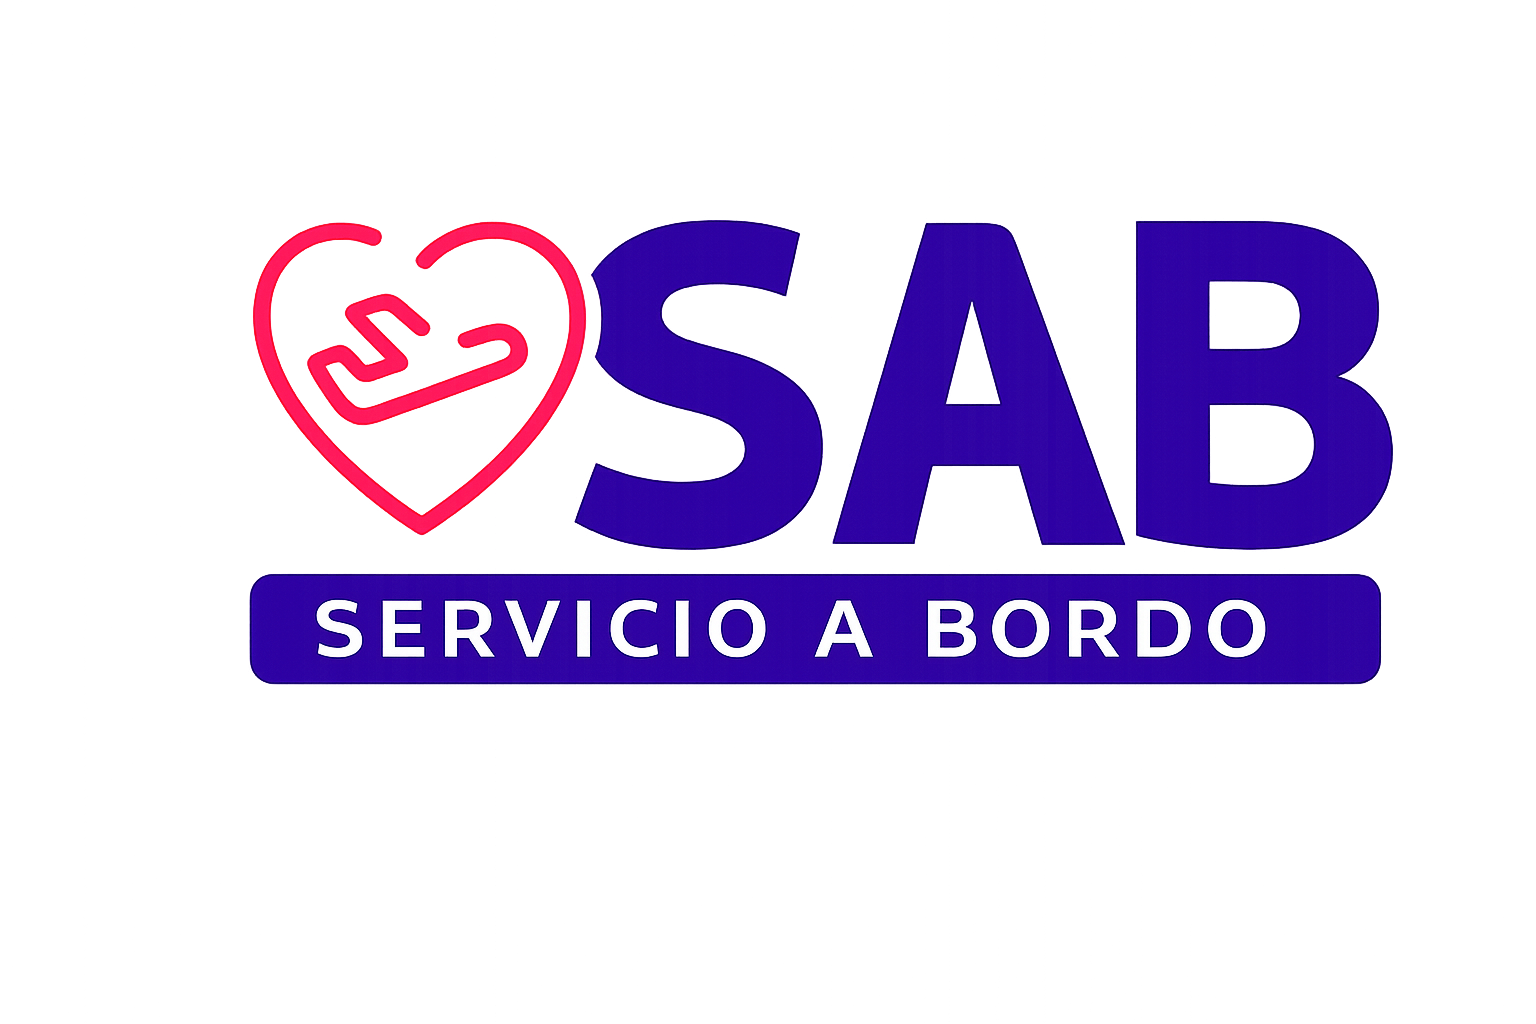
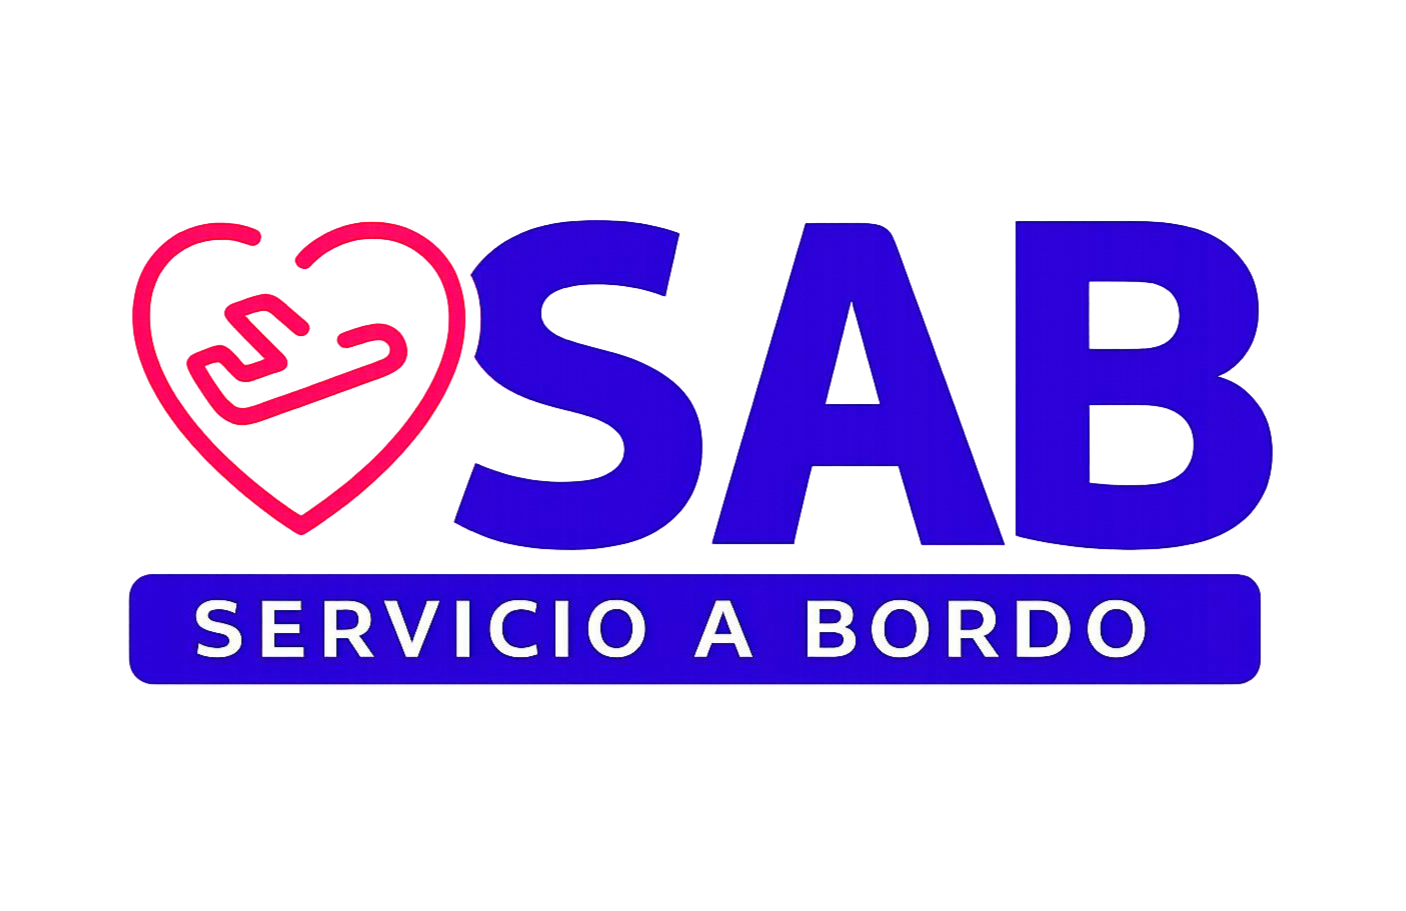
agregando modal y arreglando imagen titulo hero

diff --git a/src/components/NewsDetailModal.jsx b/src/components/NewsDetailModal.jsx
@@ -1,0 +1,130 @@
+import Modal from './Modal.jsx'
+import { IconPlane, IconCalendar, IconClipboard, IconClose } from './icons.jsx'
+
+const SECTION_ICONS = {
+  flight: IconPlane,
+  calendar_month: IconCalendar,
+  fact_check: IconClipboard,
+}
+
+function InfoCard({ section }) {
+  const Icon = SECTION_ICONS[section.icon] ?? IconClipboard
+  return (
+    <div className="flex flex-col rounded-xl border border-latam-diavivo/25 bg-latam-estrellada/40 p-3.5 backdrop-blur-sm">
+      <div className="mb-2 flex items-center gap-2 border-b border-white/10 pb-2">
+        <Icon className="h-4 w-4 flex-shrink-0 text-latam-coral" />
+        <h4 className="text-[11px] font-extrabold uppercase tracking-wider text-white">{section.title}</h4>
+      </div>
+      <p className="text-[12.5px] leading-relaxed text-slate-300">{section.body}</p>
+
+      {section.table && (
+        <div className="mt-3 overflow-hidden rounded-lg border border-white/10 bg-black/20 text-[12px]">
+          <div className="grid grid-cols-3 border-b border-white/10 bg-white/5 px-3 py-2 font-semibold text-slate-300">
+            {section.table.headers.map((h) => (
+              <div key={h} className={h === section.table.headers[2] ? 'text-right' : h === section.table.headers[1] ? 'text-center' : ''}>
+                {h}
+              </div>
+            ))}
+          </div>
+          <div className="divide-y divide-white/5">
+            {section.table.rows.map((row) => (
+              <div key={row.join('-')} className="grid grid-cols-3 items-center px-3 py-2">
+                <div className="font-bold text-white">{row[0]}</div>
+                <div className="text-center text-slate-300">{row[1]}</div>
+                <div className="text-right font-extrabold text-latam-coral">{row[2]}</div>
+              </div>
+            ))}
+          </div>
+        </div>
+      )}
+    </div>
+  )
+}
+
+export default function NewsDetailModal({ news, onClose }) {
+  const { detail, image } = news
+  if (!detail && !image) return null
+
+  if (image) {
+    return (
+      <Modal onClose={onClose} className="bg-latam-profunda">
+        <button
+          type="button"
+          onClick={onClose}
+          aria-label="Cerrar"
+          className="absolute right-4 top-4 z-20 flex h-8 w-8 items-center justify-center rounded-full border border-white/10 bg-white/10 text-white transition hover:bg-white/20"
+        >
+          <IconClose className="h-4 w-4" />
+        </button>
+        <img src={`${import.meta.env.BASE_URL}${image}`} alt={news.noticia} className="block w-full" />
+      </Modal>
+    )
+  }
+
+  const [mainSection, ...restSections] = detail.sections ?? []
+
+  return (
+    <Modal onClose={onClose} className="text-white">
+      <div
+        className="relative flex flex-col overflow-hidden rounded-2xl"
+        style={{ background: 'linear-gradient(185deg, #0F004F 0%, #1B0088 55%, #080030 100%)' }}
+      >
+        <div className="pointer-events-none absolute right-0 top-0 h-72 w-72 rounded-full bg-latam-diavivo opacity-40 blur-[90px]" />
+        <div className="pointer-events-none absolute bottom-0 left-0 h-56 w-56 rounded-full bg-latam-coral opacity-20 blur-[100px]" />
+
+        <button
+          type="button"
+          onClick={onClose}
+          aria-label="Cerrar"
+          className="absolute right-4 top-4 z-20 flex h-8 w-8 items-center justify-center rounded-full border border-white/10 bg-white/10 text-white transition hover:bg-white/20"
+        >
+          <IconClose className="h-4 w-4" />
+        </button>
+
+        <div className="relative h-40 w-full overflow-hidden">
+          <div className="absolute inset-0 z-10 bg-gradient-to-t from-[#0F004F] via-[#0F004F]/50 to-transparent" />
+          <div className="absolute inset-0 z-10 bg-gradient-to-r from-[#0F004F]/60 to-transparent" />
+          <img
+            src={`${import.meta.env.BASE_URL}img/hero.png`}
+            alt=""
+            className="h-full w-full scale-105 object-cover object-[center_65%]"
+          />
+          <span className="absolute left-5 top-4 z-20 text-[10px] font-bold uppercase tracking-[3px] text-slate-300">
+            Comunicados
+          </span>
+        </div>
+
+        <div className="relative z-10 space-y-4 px-6 pb-7 pt-3">
+          <div className="flex flex-wrap items-center gap-2">
+            <span className="rounded-full bg-latam-coral px-3 py-1 text-[10px] font-extrabold uppercase tracking-wider text-white shadow-sm">
+              {detail.eyebrow}
+            </span>
+            {detail.tag && (
+              <span className="text-xs font-semibold uppercase tracking-wide text-slate-300">{detail.tag}</span>
+            )}
+          </div>
+
+          <h2 className="text-2xl font-extrabold leading-tight tracking-tight text-white">{detail.title}</h2>
+
+          <p className="text-[13.5px] font-light leading-relaxed text-slate-200">{detail.body}</p>
+
+          {detail.highlight && (
+            <div className="rounded-r-xl border-l-4 border-latam-coral bg-white/5 p-3.5">
+              <p className="text-[13px] font-medium italic leading-snug text-slate-200">{detail.highlight}</p>
+            </div>
+          )}
+
+          {mainSection && <InfoCard section={mainSection} />}
+
+          {restSections.length > 0 && (
+            <div className="grid grid-cols-1 gap-3 sm:grid-cols-2">
+              {restSections.map((section) => (
+                <InfoCard key={section.title} section={section} />
+              ))}
+            </div>
+          )}
+        </div>
+      </div>
+    </Modal>
+  )
+}

diff --git a/src/data/news.js b/src/data/news.js
@@ -4,11 +4,43 @@ export const NEWS = [
     noticia: 'Ampliación del Piloto: Sanguchito de Pollo',
     description: 'Implementación confirmada en las rutas internacionales de Punta Cana (PUJ) y Cancún (CUN).',
     href: '#',
+    detail: {
+      eyebrow: 'Extensión de Plazo',
+      title: '¡Continúa el sándwich a bordo!',
+      tag: 'Regional YC (PUJ + CUN)',
+      body: 'Gracias a sus sugerencias y buenas ideas, se dio inicio con este piloto en nuestro servicio de catering, que busca elevar la experiencia de nuestros pasajeros a un nivel superior. El éxito del mismo va de la mano con el toque de hospitalidad que nos caracteriza en cada vuelo, durante la entrega del servicio.',
+      highlight: 'Cambio de producto: El sándwich de jamón y queso será sustituido por un sándwich de pollo a la brasa con queso.',
+      sections: [
+        {
+          icon: 'flight',
+          title: 'Alcance Obligatorio',
+          body: 'Aplica únicamente en los números de vuelos detallados para la ruta LIM–PUJ y LIM–CUN (solo one way):',
+          table: {
+            headers: ['Ruta', 'Vuelo', 'Hora'],
+            rows: [
+              ['LIM - CUN', '2456', '13:05'],
+              ['LIM - PUJ', '2450', '12:30'],
+            ],
+          },
+        },
+        {
+          icon: 'calendar_month',
+          title: 'Vigencia de la Medida',
+          body: 'Se inició el 01 de junio, y ahora se extiende la vigencia todo el mes de julio.',
+        },
+        {
+          icon: 'fact_check',
+          title: 'Medición de Avance (NIMBUS)',
+          body: 'Se activa campaña en NIMBUS para que JSB y HR de manera obligatoria respondan la breve encuesta que necesitamos para medir el avance del piloto.',
+        },
+      ],
+    },
   },
   {
     noticia: 'Reembolso Multas Elecciones 2026',
     description: 'Revisa los plazos y carga tus comprobantes oficiales de exoneración en el portal de Datos Personales.',
     href: '#',
+    image: 'img/noticia_modal/plazo_reembolso.png',
   },
   {
     noticia: 'Renovación de Fotocheck: Nuevo Proceso Digital',

diff --git a/src/pages/Home.jsx b/src/pages/Home.jsx
@@ -1,8 +1,9 @@
-import { useEffect } from 'react'
+import { useEffect, useState } from 'react'
 import { MODULES } from '../data/menuData.js'
 import { NEWS } from '../data/news.js'
 import OptionCard from '../components/OptionCard.jsx'
 import NoveltyCarousel from '../components/NoveltyCarousel.jsx'
+import NewsDetailModal from '../components/NewsDetailModal.jsx'
 import Reveal from '../components/Reveal.jsx'
 import SectionHeading from '../components/SectionHeading.jsx'
 import FaqAccordion from '../components/FaqAccordion.jsx'
@@ -35,6 +36,8 @@ const FAQ_ITEMS = [
 ]
 
 export default function Home() {
+  const [activeNews, setActiveNews] = useState(null)
+
   useEffect(() => {
     document.title = 'SAB Perú · Inicio'
   }, [])
@@ -59,7 +62,7 @@ export default function Home() {
             />
           </div>
 
-          <NoveltyCarousel items={NEWS} />
+          <NoveltyCarousel items={NEWS} onOpenDetail={setActiveNews} />
         </section>
 
         <section className="flex flex-[1] flex-col justify-center px-5 pb-3 pt-6 sm:pt-8">
@@ -101,6 +104,10 @@ export default function Home() {
           </div>
         </Reveal>
       </div>
+
+      {(activeNews?.detail || activeNews?.image) && (
+        <NewsDetailModal news={activeNews} onClose={() => setActiveNews(null)} />
+      )}
     </>
   )
 }

diff --git a/src/components/NoveltyBanner.jsx b/src/components/NoveltyBanner.jsx
@@ -3,6 +3,8 @@ export default function NoveltyBanner({
   description,
   href = '#',
   buttonLabel = 'Ver detalle',
+  hasDetail = false,
+  onOpenDetail,
   className = '',
 }) {
   return (
@@ -11,12 +13,23 @@ export default function NoveltyBanner({
     >
       <h3 className="text-3xl font-bold text-white">{noticia}</h3>
       <p className="text-xl leading-snug text-white">{description}</p>
-      
-        <a href={href}
-        className="mt-2 inline-block rounded-lg bg-latam-coral px-5 py-2 text-sm font-bold uppercase tracking-wide text-white"
-      >
-        {buttonLabel}
-      </a>
+
+      {hasDetail ? (
+        <button
+          type="button"
+          onClick={onOpenDetail}
+          className="mt-2 inline-block rounded-lg bg-latam-coral px-5 py-2 text-sm font-bold uppercase tracking-wide text-white"
+        >
+          {buttonLabel}
+        </button>
+      ) : (
+        <a
+          href={href}
+          className="mt-2 inline-block rounded-lg bg-latam-coral px-5 py-2 text-sm font-bold uppercase tracking-wide text-white"
+        >
+          {buttonLabel}
+        </a>
+      )}
     </div>
   )
 }

diff --git a/src/components/Modal.jsx b/src/components/Modal.jsx
@@ -1,0 +1,28 @@
+import { useEffect } from 'react'
+
+// Generic centered overlay modal: closes on Escape or backdrop click. Children own their own close control.
+export default function Modal({ onClose, children, className = '' }) {
+  useEffect(() => {
+    const onKey = (e) => e.key === 'Escape' && onClose()
+    document.addEventListener('keydown', onKey)
+    document.body.style.overflow = 'hidden'
+    return () => {
+      document.removeEventListener('keydown', onKey)
+      document.body.style.overflow = ''
+    }
+  }, [onClose])
+
+  return (
+    <div
+      className="fixed inset-0 z-[100] flex items-center justify-center bg-latam-profunda/60 p-4 backdrop-blur-sm animate-fadeUp [animation-duration:.25s]"
+      onClick={onClose}
+    >
+      <div
+        onClick={(e) => e.stopPropagation()}
+        className={`relative max-h-[85vh] w-full max-w-lg overflow-y-auto rounded-2xl shadow-card ${className}`}
+      >
+        {children}
+      </div>
+    </div>
+  )
+}

diff --git a/src/components/NoveltyCarousel.jsx b/src/components/NoveltyCarousel.jsx
@@ -6,7 +6,7 @@ const FADE_MS = 480   // duración del fundido
 
 // Rota entre varias <NoveltyBanner>, con fundido + leve desplazamiento,
 // auto-avance, y puntos para navegar manualmente.
-export default function NoveltyCarousel({ items, className = '' }) {
+export default function NoveltyCarousel({ items, onOpenDetail, className = '' }) {
   const [index, setIndex] = useState(0)
   const [visible, setVisible] = useState(true)
   const timerRef = useRef(null)
@@ -51,6 +51,8 @@ export default function NoveltyCarousel({ items, className = '' }) {
           description={current.description}
           href={current.href}
           buttonLabel={current.buttonLabel}
+          hasDetail={Boolean(current.detail || current.image)}
+          onOpenDetail={() => onOpenDetail?.(current)}
         />
       </div>
 

diff --git a/src/components/OptionCard.jsx b/src/components/OptionCard.jsx
@@ -16,7 +16,7 @@ export default function OptionCard({ to, title, image, icon: Icon, style }) {
       <span className="mb-1.5 flex h-7 w-7 items-center justify-center rounded-lg border border-white/25 bg-white/15 backdrop-blur sm:mb-3 sm:h-11 sm:w-11 sm:rounded-xl">
         <Icon className="h-3.5 w-3.5 text-white sm:h-5 sm:w-5" />
       </span>
-      <h3 className="text-[11px] font-extrabold leading-tight text-white sm:text-lg">{title}</h3>
+      <h3 className="text-lg font-bold leading-tight text-white sm:text-lg">{title}</h3>
     </Link>
   )
 }
